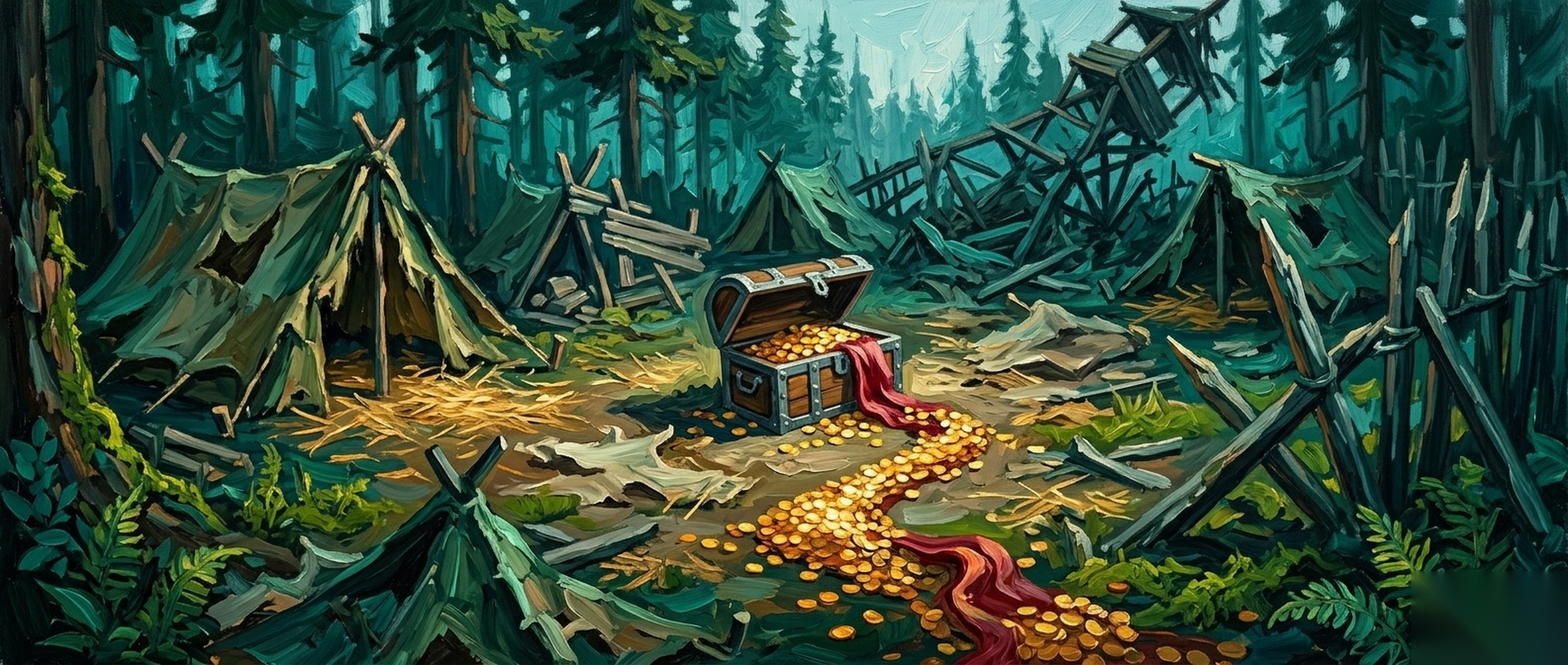
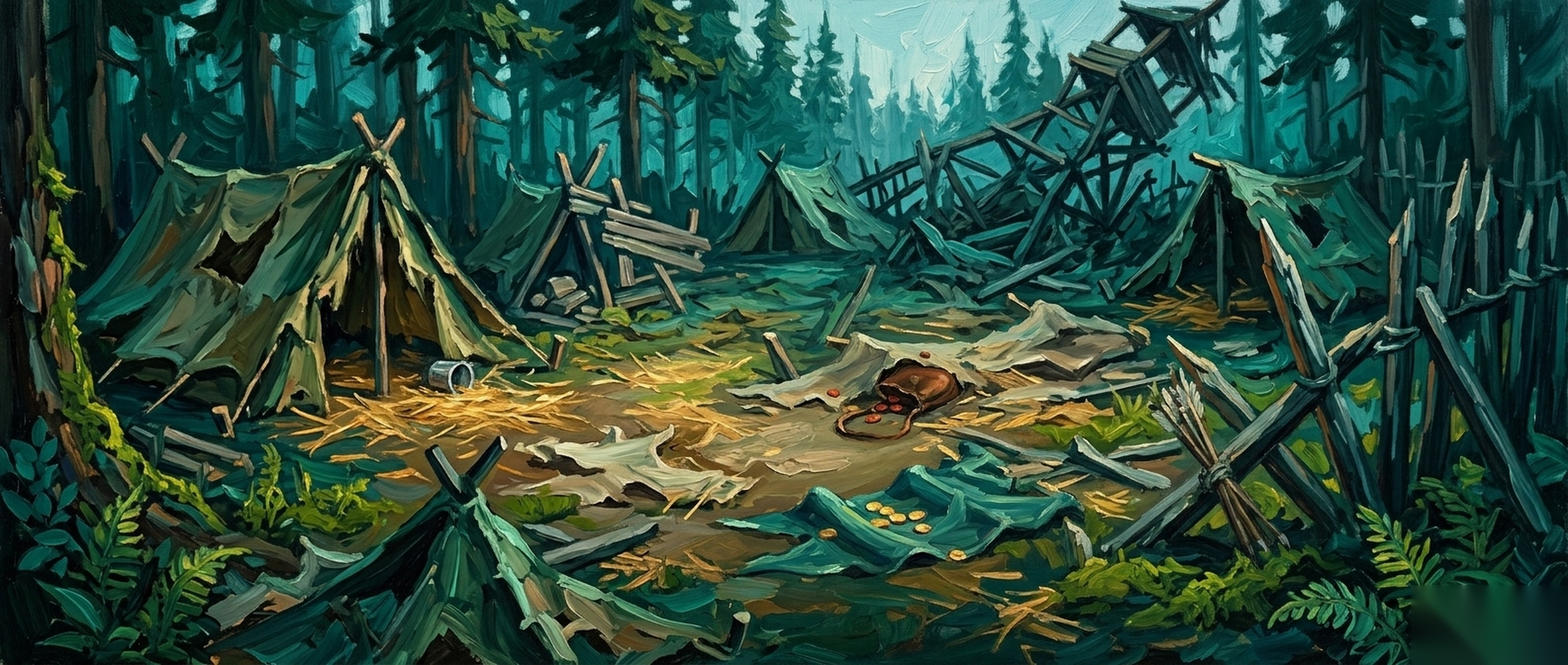
goblin scenes v2: bottino silk bolts (value-readable), saccheggio search-scene, incalzare anchor fix

diff --git a/src/ui/idleVillage/questS1Lab/render/sceneManifest.ts b/src/ui/idleVillage/questS1Lab/render/sceneManifest.ts
@@ -243,6 +243,9 @@ export const SCENE_CINEMATICS: Record<string, SceneCinematicEntry> = SceneCinema
       { type: 'fireflies', band: [0.55, 0.75], xband: [0.05, 0.45], count: 5 },
       /* The forest breathes: sparse leaves dropping through the canopy. */
       { type: 'leaves', band: [0.08, 0.85], xband: [0.15, 0.95], count: 9 },
+      /* The painted god-ray over the wet print — amplified runtime-owned
+       *  (same rule as gola-raider: painted shaft gets a live shaft). */
+      { type: 'shaft', from: [0.62, 0.03], to: [0.56, 0.55], width: 0.14, count: 3, a: 0.12, color: '#ffe9b8' },
     ],
   },
   'carro-nascosto': {
@@ -296,13 +299,18 @@ export const SCENE_CINEMATICS: Record<string, SceneCinematicEntry> = SceneCinema
     focusAnchor: [0.45, 0.55],
     atmosphere: [],
     ambient: [
-      /* Campfire at frame-left raking the trunks. */
-      { type: 'glow', at: [0.14, 0.52], r: 0.13, color: '#ff8c30', a: 0.5, flicker: 0.5 },
-      { type: 'embers', at: [0.15, 0.5], count: 5 },
-      /* The dropped torch guttering on the moss — the panic object. */
-      { type: 'glow', at: [0.63, 0.6], r: 0.05, color: '#ffa040', a: 0.45, flicker: 0.6 },
-      { type: 'embers', at: [0.63, 0.58], count: 3 },
-      { type: 'smoke', at: [0.63, 0.56], count: 2, lean: 0.18 },
+      /* Re-anchored on the painted flames (Director 2026-10-24): main
+       *  fire left at (0.15,0.55), second ember low-left (0.15,0.74),
+       *  dropped torch guttering on the moss at (0.58,0.80). */
+      { type: 'glow', at: [0.15, 0.55], r: 0.13, color: '#ff8c30', a: 0.55, flicker: 0.5 },
+      { type: 'embers', at: [0.15, 0.53], count: 6 },
+      { type: 'smoke', at: [0.15, 0.5], count: 4, lean: 0.14 },
+      { type: 'glow', at: [0.15, 0.74], r: 0.06, color: '#ff9038', a: 0.35, flicker: 0.5 },
+      { type: 'embers', at: [0.15, 0.72], count: 3 },
+      /* The dropped torch on the moss — panic object, animated flame. */
+      { type: 'glow', at: [0.58, 0.80], r: 0.055, color: '#ffa040', a: 0.5, flicker: 0.6 },
+      { type: 'embers', at: [0.58, 0.78], count: 4 },
+      { type: 'smoke', at: [0.58, 0.76], count: 2, lean: 0.18 },
       /* Dust in the lit corridor + slow drift swallowing the far dark. */
       { type: 'dust', count: 12 },
       { type: 'drift', band: [0.3, 0.7], xband: [0.55, 0.95], count: 3, speed: 0.006, a: 0.12, color: '#2a4a52' },
@@ -319,12 +327,18 @@ export const SCENE_CINEMATICS: Record<string, SceneCinematicEntry> = SceneCinema
     focusAnchor: [0.55, 0.62],
     atmosphere: [],
     ambient: [
-      /* Big campfire right-of-center + the pot fire under the tripod. */
-      { type: 'glow', at: [0.555, 0.63], r: 0.12, color: '#ff9838', a: 0.5, flicker: 0.45 },
-      { type: 'glow', at: [0.44, 0.585], r: 0.06, color: '#ff9838', a: 0.35, flicker: 0.5 },
-      { type: 'smoke', at: [0.552, 0.6], count: 5, lean: 0.14 },
-      { type: 'smoke', at: [0.44, 0.56], count: 3, lean: 0.1 },
-      { type: 'embers', at: [0.555, 0.62], count: 5 },
+      /* 4 painted fires (re-anchor 2026-10-24 after v2 image): tent
+       *  left, big campfire center, cook fire, palisade right. */
+      { type: 'glow', at: [0.30, 0.48], r: 0.05, color: '#ff9838', a: 0.4, flicker: 0.5 },
+      { type: 'glow', at: [0.43, 0.70], r: 0.12, color: '#ff9838', a: 0.55, flicker: 0.5 },
+      { type: 'glow', at: [0.555, 0.63], r: 0.07, color: '#ff9838', a: 0.45, flicker: 0.45 },
+      { type: 'glow', at: [0.68, 0.61], r: 0.06, color: '#ff9838', a: 0.4, flicker: 0.5 },
+      { type: 'smoke', at: [0.43, 0.65], count: 5, lean: 0.14 },
+      { type: 'smoke', at: [0.555, 0.58], count: 3, lean: 0.1 },
+      { type: 'smoke', at: [0.68, 0.56], count: 2, lean: 0.12 },
+      { type: 'embers', at: [0.43, 0.68], count: 6 },
+      { type: 'embers', at: [0.555, 0.61], count: 3 },
+      { type: 'embers', at: [0.68, 0.59], count: 3 },
       /* Dusk fireflies over the treeline behind the camp + a dull
        *  twinkle on the hanging cookware by the tripod. */
       { type: 'fireflies', band: [0.3, 0.42], xband: [0.15, 0.85], count: 6 },

diff --git a/.mw/specs/quest-goblin-scenes/scenes/f2-bottino/prompt.md b/.mw/specs/quest-goblin-scenes/scenes/f2-bottino/prompt.md
@@ -29,7 +29,7 @@ stona. Gli oggetti enumerati diventano sempre il soggetto.
 ## Full prompt
 
 ```text
-HIDDEN CACHE — A masterful cinematic oil painting in heavy textured impasto: thick, violent palette-knife strokes, visible layers of paint adding physical depth. A pit sunk in the forest floor, seen from above — and inside its dark mouth, one single gleam of gold betraying the secret. SUBJECT: at lower-center an unmistakable hollow dug between root flares — its rim of wrenched roots and pushed-back litter; dark tanned hides drawn back at one edge so the pit's interior falls to real depth and saturated shadow; and there, in that depth, NOT the bundle but the tell — one sharp glint of gold or polished metal peeking from under the hides: a coin edge, a clasp, a merchant's seal catching one sliver of dappled light. Beneath it the vague grey-green bulk of wrapped canvas stays almost all in shadow — the eye finds the gleam first, then understands the hiding. Around the pit, undisturbed undergrowth: emerald moss, bright ferns, root bark, ochre litter as accent not carpet. COMPOSITION: no horizon — the world is the floor; the pit is the dark focal mouth off-center; the gleam is the sharpest light-point in frame; a mossy bank occludes the lower-left edge. LIGHTING: dappled midday sun — the litter glints, the pit stays in saturated teal shade except for that one struck edge of gold. PALETTE: emerald moss and veronese-green undergrowth dominant, ultramarine in the pit's depth, ochre-amber as accents, the single gold note the brightest point, deep teal-emerald every shadow — NO grey, NO brown dominance, NO mud. The frame stays luminous and high-chroma — light wins over darkness, even the deepest shadow is saturated color, never black murk. TECHNIQUE: Jaime Jones broad oil strokes, Jeff Easley weight — tactile moss, root, bark — the world rendered as rude beauty, weathered and tactile, never squalid. MOOD: patience rewarded + the quiet thrill of the find. NO books or rectangular objects, NO flat-laid sacks on the surface, NO chest or kettle or scattered goods, NO excavated earth ring, NO grey desaturated bundle as the focal — the gleam is the hook not the package, NO people, NO creatures, NO faces, NO fog painted, NO light shafts, NO smoke, NO grim, NO gore, NO decay, NO mud, NO symmetry, NO flat digital, NO airbrushed smoothness, NO sci-fi, NO text/UI/watermarks/frames/signatures/logos. 21:9 cinematic scope.
+HIDDEN CACHE — A masterful cinematic oil painting in heavy textured impasto: thick, violent palette-knife strokes, visible layers of paint adding physical depth. A pit sunk in the forest floor, seen from above — and inside, goods a merchant would kill for: ROLLS OF FINE SILK. SUBJECT: at lower-center an unmistakable hollow dug between root flares — its rim of wrenched roots and pushed-back litter; dark tanned hides drawn back at one edge so the pit's interior falls to real depth and saturated shadow; and there, tucked in that shadow, several fabric bolts packed tight — the end of one bolt rolled out just enough to show its colors: a crimson-cinnabar edge, an indigo band, a fold of warm amber cloth — trade goods worth selling, unmistakably valuable, unmistakably hidden. One coin or brass clasp catches a sliver of dappled light at the silk's edge — the tell that guides the eye in. Around the pit, undisturbed undergrowth: emerald moss, bright ferns, root bark, ochre litter as accent not carpet. COMPOSITION: no horizon — the world is the floor; the pit is the dark focal mouth off-center; the silk colors and the gleam are the brightest notes in frame; a mossy bank occludes the lower-left edge. LIGHTING: dappled midday sun — the litter glints, the pit stays in saturated teal shade except the silk edges and the struck clasp. PALETTE: emerald moss and veronese-green undergrowth dominant, ultramarine in the pit's depth, deep teal-emerald every shadow, the silk bolts cinnabar-red, indigo and amber — NO grey, NO brown dominance, NO mud. The frame stays luminous and high-chroma — light wins over darkness, even the deepest shadow is saturated color, never black murk. TECHNIQUE: Jaime Jones broad oil strokes, Jeff Easley weight — the silk painted as folded ribbons of saturated color, tactile moss, root, bark — the world rendered as rude beauty, weathered and tactile, never squalid. MOOD: patience rewarded + the quiet thrill of the find. NO books or rectangular objects, NO grey desaturated bundle, NO chest or kettle or scattered goods, NO excavated earth ring, NO people, NO creatures, NO faces, NO fog painted, NO light shafts, NO smoke, NO grim, NO gore, NO decay, NO mud, NO symmetry, NO flat digital, NO airbrushed smoothness, NO sci-fi, NO text/UI/watermarks/frames/signatures/logos. 21:9 cinematic scope.
 ```
 
 ## Generation notes

diff --git a/.mw/specs/quest-goblin-scenes/scenes/f2-saccheggio/prompt.md b/.mw/specs/quest-goblin-scenes/scenes/f2-saccheggio/prompt.md
@@ -6,7 +6,7 @@ Nodi: `gob-esplora-extra`, `gob-cerca`. Beat: le spoglie — il forziere aperto
 ## Full prompt — generatori esterni (Gemini / Grok / GPT)
 
 ```text
-SACCHEGGIO — painted in heavy oil impasto. The aftermath of a looted camp at noon, and THE SIGNATURE: a merchant's strongbox dragged open in the clearing — its iron-banded lid thrown back, and from its mouth a single bright trail of coins and a fallen silk bolt spilling toward the viewer in one sinuous line — the one detail a child would redraw: the treasure that literally leaks out. SUBJECT: the chest sits off-center in a torn clearing — collapsed hide tents and a snapped palisade fragment around it, straw and torn canvas scattered — but the EYE lands on the spill of gold and the crimson silk: the story of a grab that ended mid-haul. NO INHABITANT VISIBLE — the looters are gone, only what they couldn't carry. COMPOSITION: the chest's bright spill cuts a diagonal through the mid-field; the ruined camp frames it without crowding — negative space around the hero object. LIGHTING: hard midday sun raking the clearing — the coins and silk take the light as the brightest point in frame; the tents' hollow shadows stay saturated. PALETTE: Veronese-green moss and fern re-growth dominant, deep teal-emerald every shadow, amber-cinnabar the spilled loot as accent — the wreckage is hide-green and grey-timber, NEVER brown mud; NO grey, NO brown, NO mud. TECHNIQUE: thick oil impasto, broad palette-knife strokes in the Jaime Jones / Jeff Easley tradition — the coins dabs of the knife, the silk a folded ribbon of paint; rude beauty — weathered and tactile, never squalid. MOOD: the spoils of violence + what couldn't be carried. Luminous, high-chroma — never black murk. NO grim, NO gore, NO decay, NO mud, NO symmetry, NO flat digital, NO airbrushed smoothness, NO sci-fi, NO text/UI/watermarks/frames/signatures/logos, NO people, NO humanoid figures, NO goblins, NO creatures, NO faces. Ultra-wide cinematic 21:9.
+SACCHEGGIO — painted in heavy oil impasto. A looted camp at noon where the player still has to LOOK for what's worth taking — the valuables are half-hidden in the wreckage, not displayed. SUBJECT: a torn clearing of collapsed hide tents, snapped palisade sticks, strewn straw and ripped canvas — and scattered among it the small tells of plunder not yet claimed: a metal cup glinting at the lip of a collapsed tent's shadow, a spilled leather purse half-buried under torn canvas, a few loose coins caught in the folds of a fallen banner, a bundle of arrows still strapped under a leaning pole — several small things the eye hunts across the frame rather than one hero object. NO open chest of gold, NO giant treasure — the finds are small, half-covered, and must be spotted. COMPOSITION: the field reads as a search — three or four low-key glints distributed off-center through the wreckage, the camp's ruin framing them without one dominant mass. LIGHTING: hard midday sun raking the clearing — each hidden thing catches one sliver of light among saturated shadows. PALETTE: Veronese-green moss and fern re-growth dominant, deep teal-emerald every shadow, amber-cinnabar the small found glints as accents — the wreckage is hide-green and grey-timber, NEVER brown mud; NO grey, NO brown, NO mud. TECHNIQUE: thick oil impasto, broad palette-knife strokes in the Jaime Jones / Jeff Easley tradition — the glints small dabs of the knife; rude beauty — weathered and tactile, never squalid. MOOD: the quiet hunt through aftermath + what the looters missed. Luminous, high-chroma — never black murk. NO grim, NO gore, NO decay, NO mud, NO symmetry, NO flat digital, NO airbrushed smoothness, NO sci-fi, NO text/UI/watermarks/frames/signatures/logos, NO people, NO humanoid figures, NO goblins, NO creatures, NO faces. Ultra-wide cinematic 21:9.
 ```
 
 **Tags riuso:** `ruined-camp, treasure-chest, spilled-loot, aftermath, daylight, no-people, generic`
